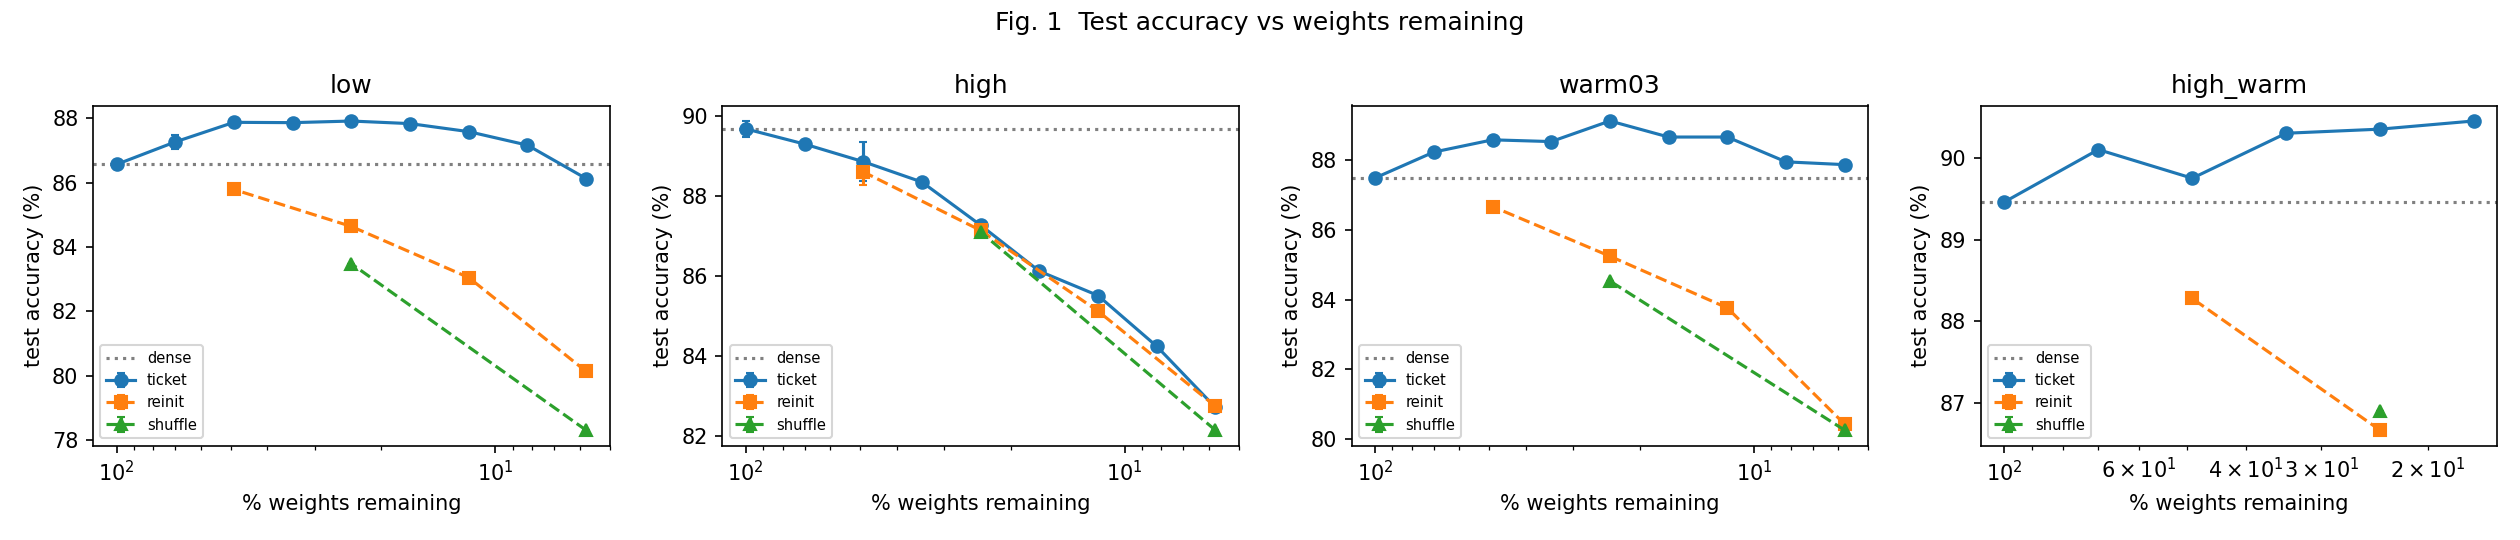
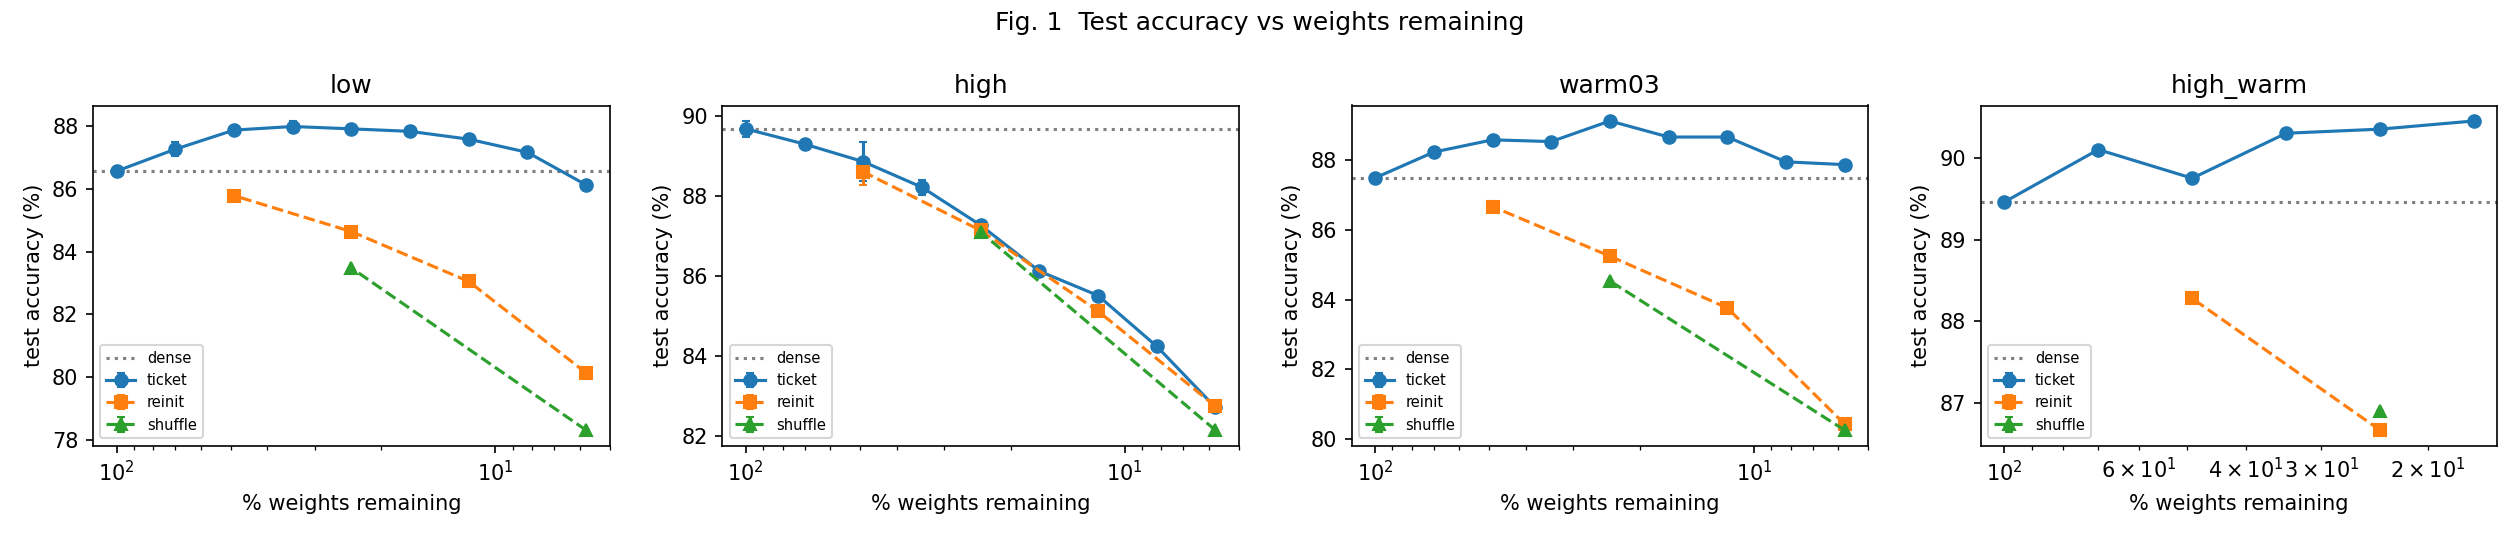
Autosave 09:44 UTC: chain logs, analysis outputs, notes

diff --git a/results/metrics_table.md b/results/metrics_table.md
@@ -1,10 +1,10 @@
 | condition | network | seeds | acc | precision | recall | f1 | auc |
 | --- | --- | --- | --- | --- | --- | --- | --- |
 | low | dense | 2 | 0.8657 ± 0.0013 | 0.8659 ± 0.0017 | 0.8657 ± 0.0013 | 0.8656 ± 0.0016 | 0.9894 ± 0.0001 |
-| low | ticket 34.3% | 1 | 0.8787 | 0.8789 | 0.8787 | 0.8786 | 0.9915 |
+| low | ticket 34.3% | 2 | 0.8800 ± 0.0018 | 0.8799 ± 0.0015 | 0.8800 ± 0.0018 | 0.8798 ± 0.0016 | 0.9915 ± 0.0001 |
 | low | ticket 5.8% | 1 | 0.8613 | 0.8609 | 0.8613 | 0.8609 | 0.9890 |
 | high | dense | 2 | 0.8969 ± 0.0020 | 0.8966 ± 0.0016 | 0.8969 ± 0.0020 | 0.8967 ± 0.0018 | 0.9933 ± 0.0001 |
-| high | ticket 34.3% | 1 | 0.8836 | 0.8834 | 0.8836 | 0.8834 | 0.9920 |
+| high | ticket 34.3% | 2 | 0.8823 ± 0.0018 | 0.8821 ± 0.0019 | 0.8823 ± 0.0018 | 0.8820 ± 0.0019 | 0.9918 ± 0.0002 |
 | high | ticket 5.8% | 1 | 0.8272 | 0.8264 | 0.8272 | 0.8265 | 0.9830 |
 | warm03 | dense | 1 | 0.8748 | 0.8746 | 0.8748 | 0.8746 | 0.9907 |
 | warm03 | ticket 34.3% | 1 | 0.8852 | 0.8850 | 0.8852 | 0.8849 | 0.9923 |

diff --git a/Methodology.md b/Methodology.md
@@ -211,6 +211,7 @@ to 10k before any condition or seed is cut.
 | low | 1 | 1 | 70.1 | ticket | 87.11% | 0.061 | 0.070 | 0.588 | no |
 | low | 1 | 2 | 49.1 | reinit | 85.80% | 0.019 | 0.072 | 0.543 | no |
 | low | 1 | 2 | 49.1 | ticket | 87.91% | 0.066 | 0.067 | 0.532 | no |
+| low | 1 | 3 | 34.5 | ticket | 88.12% | 0.060 | 0.076 | 0.465 | no |
 | high | 0 | 0 | 100.0 | ticket (dense) | 89.83% | 0.670 | 0.226 | 0.247 | no |
 | high | 0 | 1 | 70.1 | ticket | 89.39% | 0.638 | 0.536 | 0.238 | no |
 | high | 0 | 2 | 49.1 | reinit | 88.85% | 0.817 | 0.334 | 0.228 | no |
